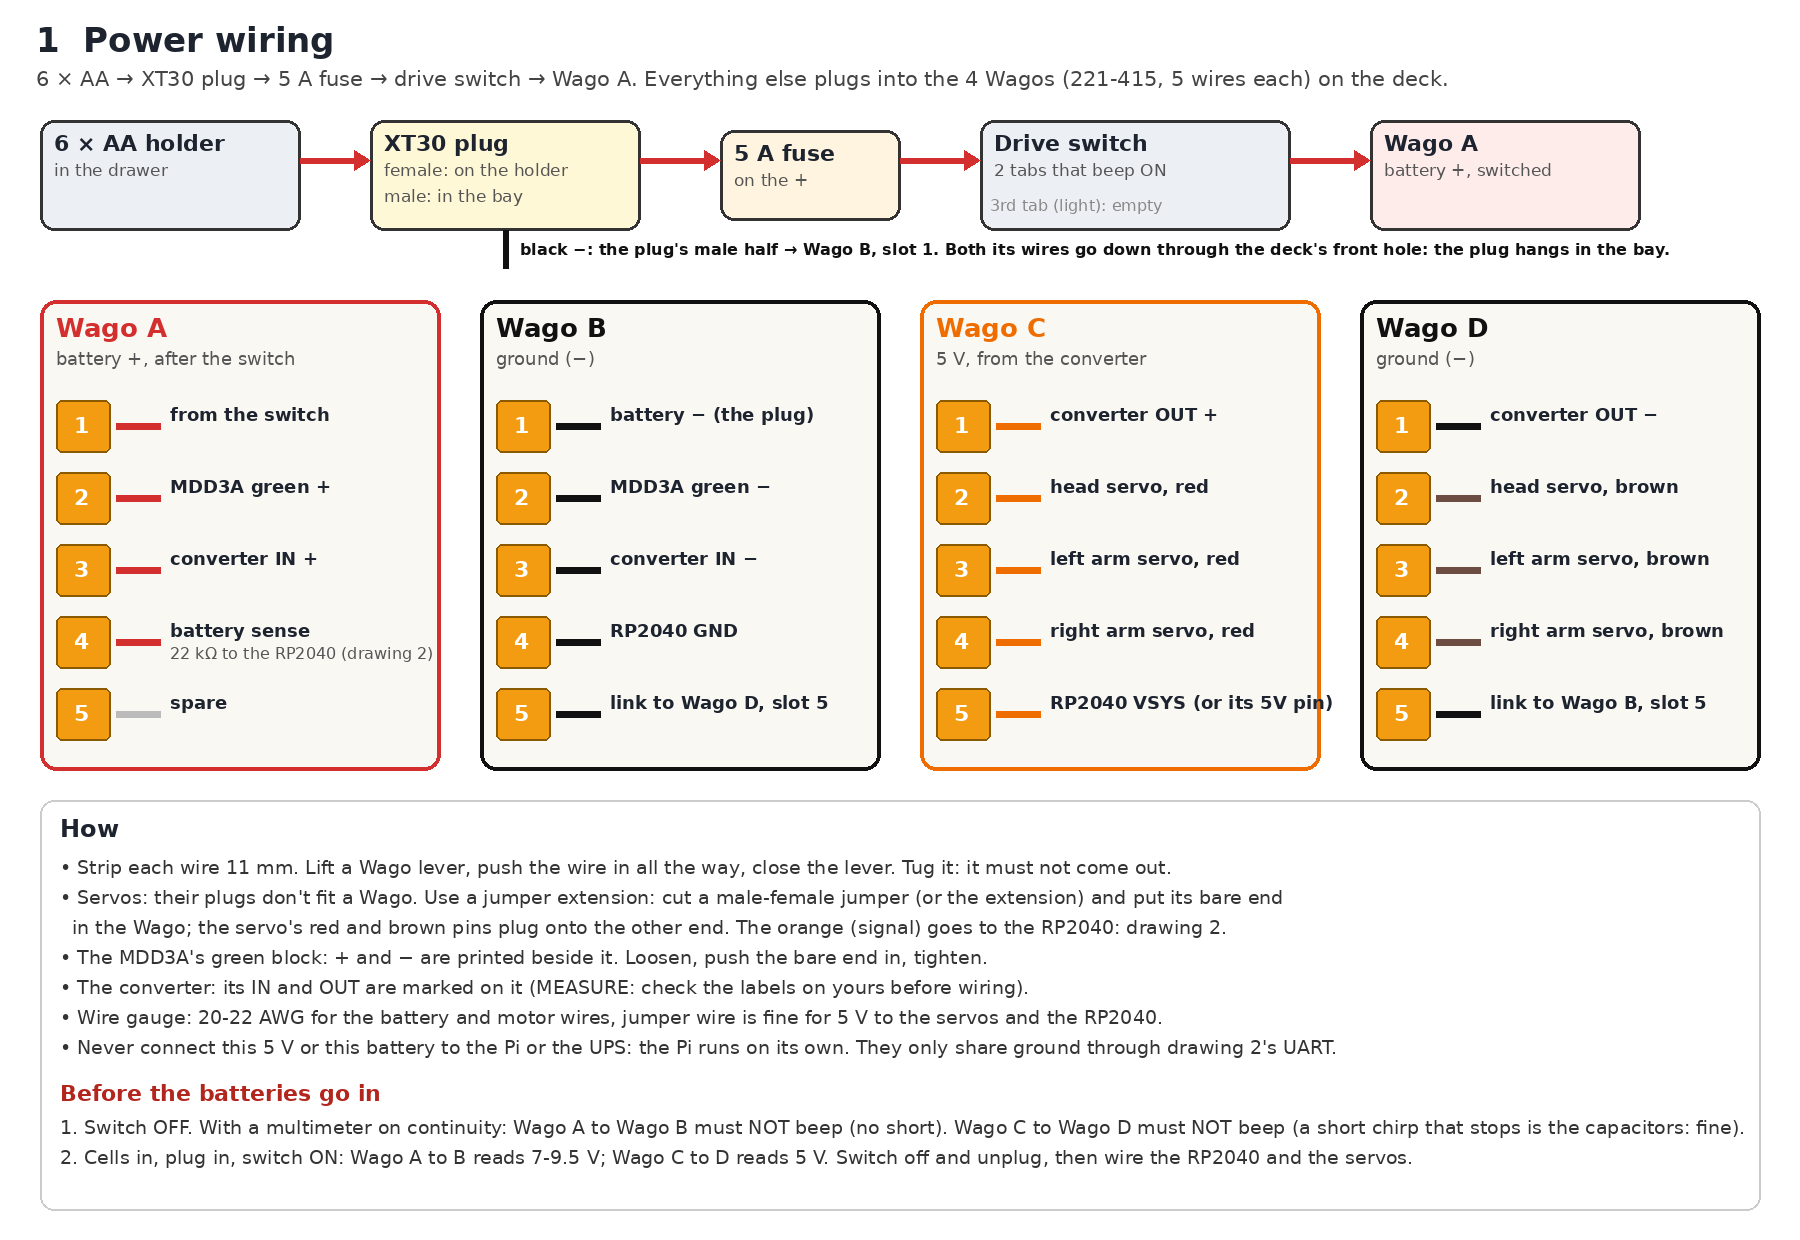
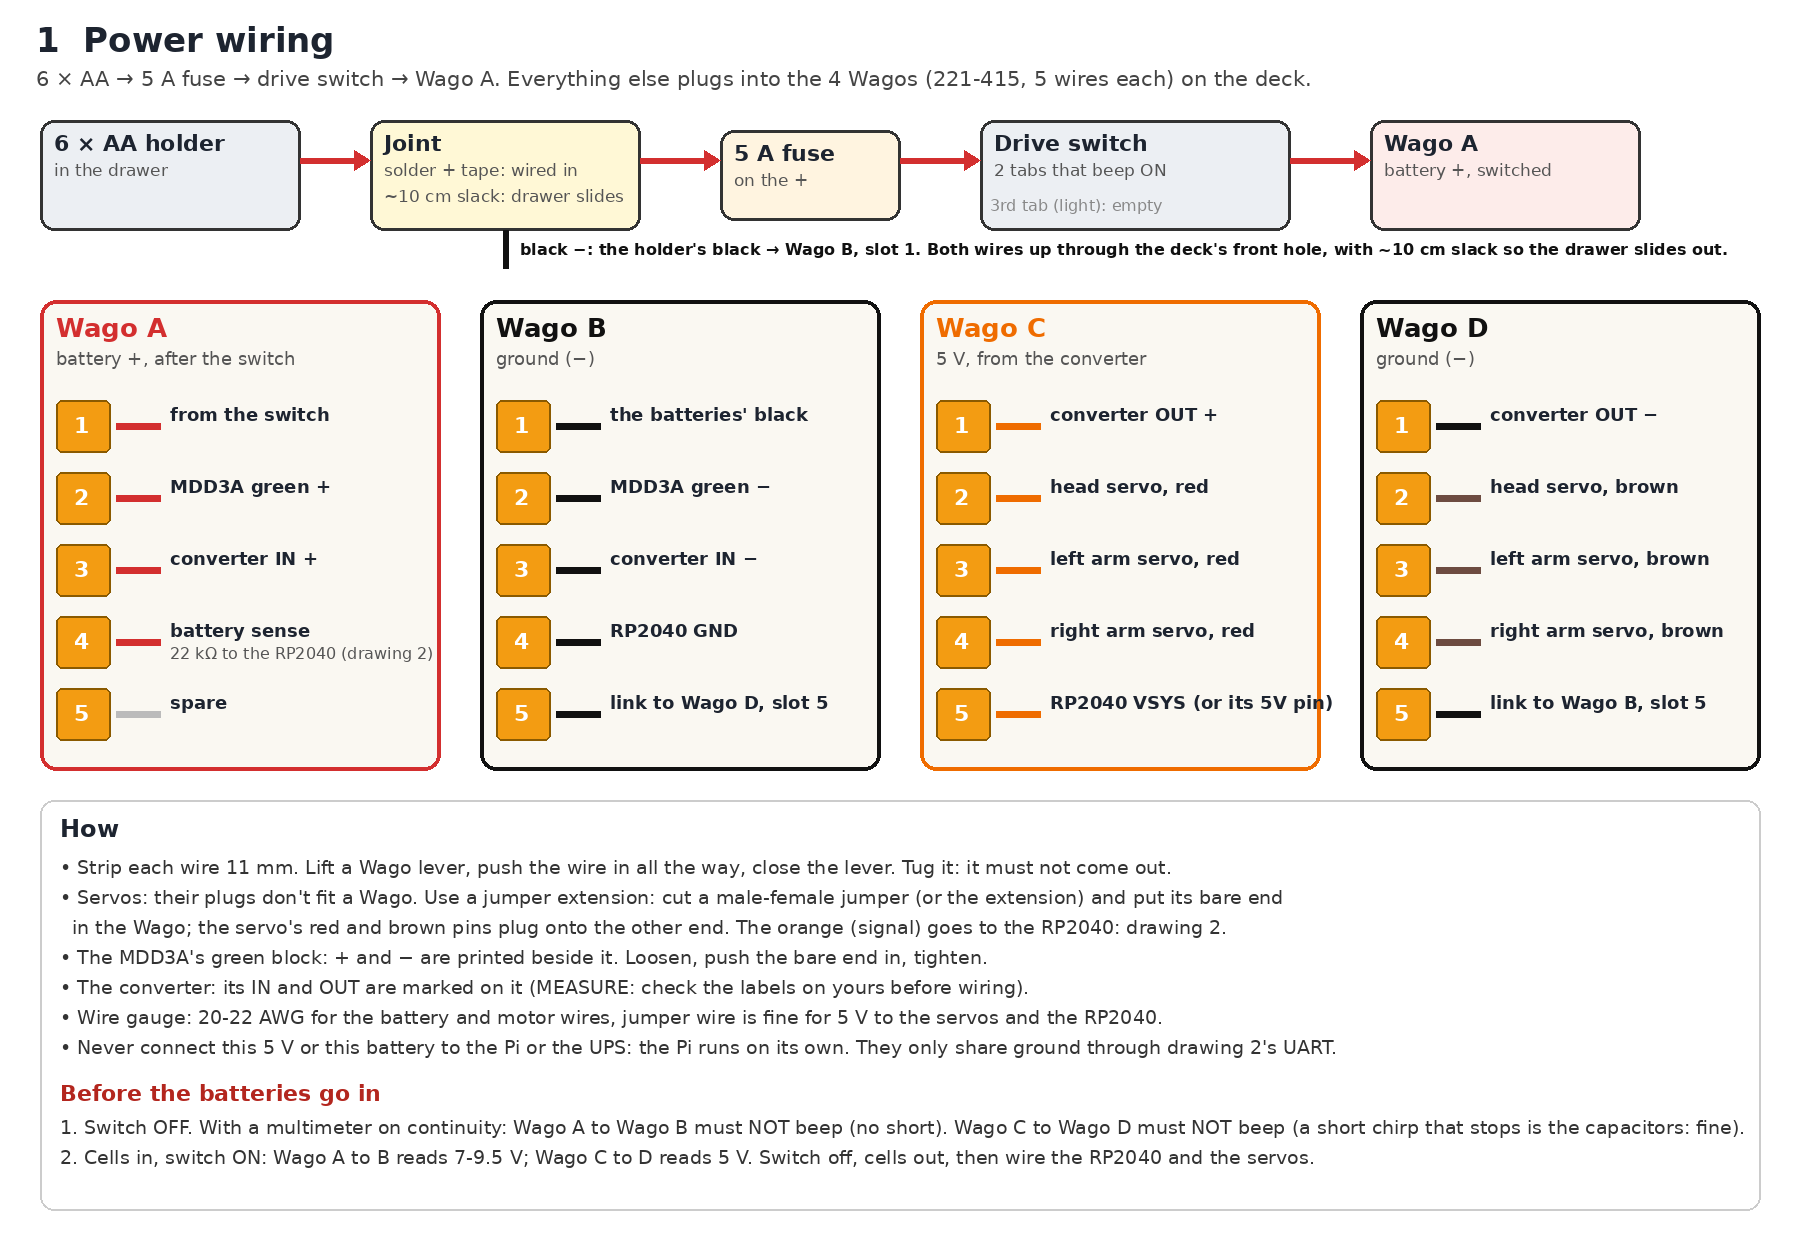
v5: the battery holder wired in for good (no XT30); the drawer slides out on its wires
WIRING.md, README and the power drawing: the holder's red joins the fuse lead, its black goes to
Wago B, both with about 10 cm of slack so the drawer can slide out 7 cm to change the cells. An XT30
pair stays an option.

Claude-Session: https://claude.ai/code/session_016yvSTZP27xtsgsiUtZidog

diff --git a/hardware/enclosure_v5/WIRING.md b/hardware/enclosure_v5/WIRING.md
@@ -2,6 +2,7 @@
 
 **Video, with narration:** [`LittleBot_v5_wiring.mp4`](LittleBot_v5_wiring.mp4) (about 11 minutes): loading the RP2040's program, the
 breadboard, power, the motor driver, the encoders, the servos, the battery sense, the Pi, the battery drawer and the first power-up.
+(The video shows an XT30 plug on the battery; without it, the holder's wires join the fuse and Wago B directly, as below.)
 
 Three drawings, in the order you wire them. The RP2040's pins here are the ones its firmware
 ([`firmware/base_controller`](../../firmware/base_controller/README.md)) uses: wire exactly these.
@@ -16,24 +17,26 @@ Three drawings, in the order you wire them. The RP2040's pins here are the ones 
 
 ## 1. Power
 
-6 × AA (in the drawer) → **XT30 plug** → 5 A fuse → drive switch → Wago A. The switch has 3 tabs: with the meter on beep, use the
-2 that beep when it's ON and stay silent when it's OFF. The third tab only lights it: leave it empty.
+6 × AA (in the drawer) → 5 A fuse → drive switch → Wago A. The switch has 3 tabs: with the meter on beep, use the 2 that
+beep when it's ON and stay silent when it's OFF. The third tab only lights it: leave it empty.
 
-**The battery plug.** The holder (DFRobot FIT0266: bare red and black leads, 150 mm) connects through an XT30 plug pair, so the
-drawer goes in last and can come all the way out:
+**The battery wires: wired in for good.** The holder (DFRobot FIT0266: bare red and black leads, 150 mm) stays connected,
+and the drawer slides out on its wires to change the cells:
 
-- the **female half** on the holder's leads: red to +, black to −; solder, heat-shrink over each joint;
-- the **male half** stays in the robot: its red goes through the fuse to the switch, its black to Wago B slot 1. Both its wires run
-  down through the hole at the deck's front, so the plug hangs in the drawer's bay;
-- **last:** cells in the holder, the holder in the drawer, plug it in, slide the drawer in (the plug and its wires fold into the
-  21 mm above the holder), 2 × M3 × 10 in the door. To change the cells: switch off, 2 screws out, slide it out, unplug.
+- solder about 15 cm of extra wire onto each of the holder's leads (heat-shrink or tape over each joint): the drawer has to
+  slide out about 7 cm to free all 6 cells, so the wires need about 10 cm of slack;
+- the red goes to the fuse's lead (solder, insulate), the black straight to Wago B slot 1. Both run up through the hole at
+  the deck's front; wire them while the deck is still out;
+- the drawer goes in empty; **last:** slide it out on its wires, cells in, slide it back (the slack folds into the 21 mm
+  above the holder), 2 × M3 × 10 in the door. To change the cells: switch off, 2 screws out, slide it out, swap, slide it in.
 
-The XT30 only fits one way round. Buy a pair with leads already on (16 AWG, 10-15 cm) and some heat-shrink.
+Make the joints solid and leave no bare metal: these wires bend each time. (An XT30 plug pair between the holder and these
+wires would let the drawer come all the way out; it's optional.)
 
 | Wago | Slot 1 | Slot 2 | Slot 3 | Slot 4 | Slot 5 |
 |---|---|---|---|---|---|
 | **A: battery +** (after the switch) | from the switch | MDD3A green + | converter IN + | 22 kΩ to the battery sense (drawing 2) | spare |
-| **B: ground** | battery −: the plug's black | MDD3A green − | converter IN − | RP2040 GND | link to Wago D |
+| **B: ground** | the batteries' black | MDD3A green − | converter IN − | RP2040 GND | link to Wago D |
 | **C: 5 V** | converter OUT + | head servo red | left arm servo red | right arm servo red | RP2040 VSYS (or its 5V pin) |
 | **D: ground** | converter OUT − | head servo brown | left arm servo brown | right arm servo brown | link to Wago B |
 
@@ -42,7 +45,7 @@ The XT30 only fits one way round. Buy a pair with leads already on (16 AWG, 10-1
 - 20-22 AWG for the battery and the motors; jumper wire for the 5 V to the servos and the RP2040.
 - Nothing from this battery or this 5 V goes to the Pi or the UPS. The two systems share only ground, through the UART's GND (drawing 2).
 
-**Before the cells go in:** switch off; on continuity, Wago A to B and Wago C to D must not beep (a short chirp that stops is the capacitors). Then cells in, plug in, switch on: A to B reads 7-9.5 V, C to D reads 5 V. Switch off and unplug; only then wire the RP2040 and the servos.
+**Before the cells go in:** switch off; on continuity, Wago A to B and Wago C to D must not beep (a short chirp that stops is the capacitors). Then cells in, switch on: A to B reads 7-9.5 V, C to D reads 5 V. Switch off and take the cells out; only then wire the RP2040 and the servos.
 
 ![signals](wiring/2_signals.png)
 

diff --git a/hardware/enclosure_v5/README.md b/hardware/enclosure_v5/README.md
@@ -109,7 +109,7 @@ The list from before stands (2 × JGA25-370 6 V / 170 RPM kits with 65 mm wheels
 
 - **the switch:** SparkFun's round rocker with a blue LED (COM-11155; RobotShop RB-Spa-2450): on/off, 16 A at 12 V, snaps into a 20.2 mm hole. The tub has that hole. Its LED lights from 5 V; leave its third tab unconnected if you don't want the light.
 - **M3 nuts:** 11 (8 body, 3 head). v4 used 8.
-- **an XT30 plug pair with leads** (16 AWG, 10-15 cm) and heat-shrink: the battery plugs in through it ([WIRING.md](WIRING.md)).
+- **optional: an XT30 plug pair with leads** and heat-shrink, if you want the drawer to come all the way out ([WIRING.md](WIRING.md)).
 - **3 × M3 × 20** for the head (the stack keeper already uses 2).
 
 Not needed any more: the PCA9685 and both 4×AA holders.
@@ -150,7 +150,7 @@ In total for the new parts: 22 × M3 × 12, 12 × M3 × 10, 12 × M3 × 8, 5 × 
    - Pods: lower each in, wheel through the floor, and fit 4 × M3 × 12. Zip-tie each motor's tail to its saddle now: the deck covers them.
    - Pi + UPS: stand its plate in the groove, ports up. The keeper over it, its legs down the stack's 2 ends (the left one behind the Pi's corner): 2 × M3 × 20, snug, not tight.
    - Charging cable: plug in the UPS's USB-C marked POWER; socket zip-tied into the holder at the back's left corner.
-4. **Drive switch, wired now:** snap it into its hole in the front wall, from outside. Use the 2 tabs that beep when it's on (meter on beep); the third only lights it. One tab: a lead through the 5 A fuse to the red of an XT30 plug's male half; that half's black goes to Wago B. The plug hangs in the drawer's bay (its wires down through the deck's front hole): the battery plugs into it last. The other tab: a lead long enough to reach Wago A on the deck. The deck covers the tabs. See [WIRING.md](WIRING.md), "The battery plug".
+4. **Drive switch, wired now:** snap it into its hole in the front wall, from outside. Use the 2 tabs that beep when it's on (meter on beep); the third only lights it. One tab: a lead through the 5 A fuse to the battery holder's red; the holder's black goes to Wago B. Both run up through the deck's front hole, with about 10 cm of slack so the drawer can slide out to change cells (the holder sits in the drawer, wired in for good). The other tab: a lead long enough to reach Wago A on the deck. The deck covers the tabs. See [WIRING.md](WIRING.md), "The battery wires".
 5. **Deck, at the bench:** breadboard with the RP2040 (it sticks down), motor driver on its 4 posts (4 × M3 × 8), servo power (Wagos C and D in the perfboard's fence: [WIRING.md](WIRING.md)) and 5 V converter (zip ties). Wire them as [WIRING.md](WIRING.md). Then onto the tub's 4 posts (4 × M3 × 8), and connect the motors, the encoders and the switch's lead.
 6. **The head's cables, now, while you can reach the Pi:** the HDMI (micro end in the Pi), the screen's USB-C and the camera's USB (Pi's USB ports), and a 3-wire jumper extension onto the servo power board for the head servo. Leave them standing up.
 7. **Body, upside down on the bench:** its whole bottom is open, so everything inside goes in from there. Drop a nut into each of the 8 slots in the tongue's edge (a dab of tape keeps them in). The speaker slides forwards between its ribs onto their ledges; its keeper behind it. The mic holder with its key and the ReSpeaker (2 × M2 × 8), its USB-C cable plugged in. Turn it back up; arm servos in from outside (2 servo screws each), a jumper extension on each lead.
@@ -165,7 +165,7 @@ In total for the new parts: 22 × M3 × 12, 12 × M3 × 10, 12 × M3 × 8, 5 × 
 
 11. **Head:** onto the black neck, 3 × M3 × 20 down through its floor. The rest of the head as v4, without the AA box.
 12. **Arms:** as v4.
-13. **Batteries, last:** 6 AA NiMH cells into the holder, the holder into the drawer (screws or tape), the holder's XT30 (female, soldered onto its leads) into the plug hanging in the bay. Slide the drawer in: the plug and its wires fold into the 21 mm above the holder. Fit 2 × M3 × 10. To change the cells: switch off, 2 screws out, slide the drawer out, unplug.
+13. **Batteries, last:** slide the drawer out on its wires, 6 AA NiMH cells into the holder, slide it back in (the slack folds into the 21 mm above the holder) and fit 2 × M3 × 10. To change the cells: switch off, 2 screws out, slide it out, swap, slide it in.
 
 ## Measure before printing
 
